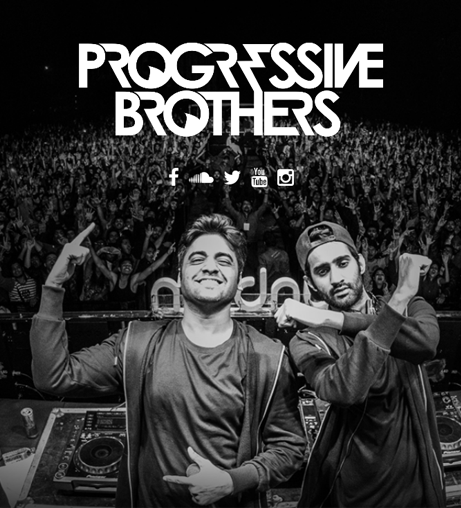
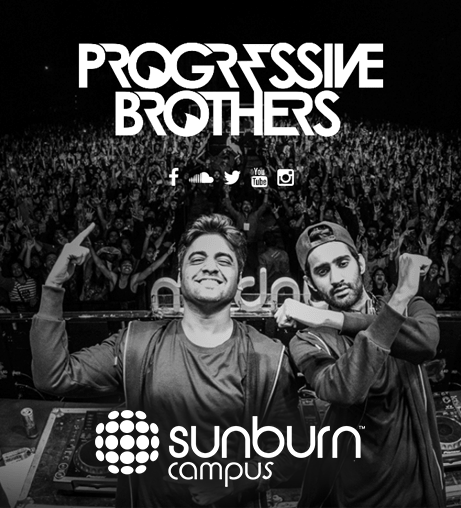
Masala coffee and combo

Changed region(s): [[0.1518, 0.7677, 0.7896, 1.0]]

diff --git a/resources/views/cultural.blade.php b/resources/views/cultural.blade.php
@@ -7,7 +7,10 @@
         <div class="d-flex flex-cultural flex-nowrap">
                 <div class="grid-width">
                     <div class="flex-disp">
-                        <img src="{{ asset('img/sunburn.png') }}" class="img-fluid"/>
+                        <img src="{{ asset('img/mix.png') }}" class="img-fluid image-over"/>
+                        <div class="overlay">
+                            <a href="{{ route('display_event', ['category' => 'cultural-shows', 'slug' => 'progressive-brothers-masala-coffee-combo']) }}" class="btn btn-info btn-lg">Show Details</a>
+                        </div> 
                     </div>
                 </div>
                 <div class="grid-width">
@@ -15,6 +18,14 @@
                         <img src="{{ asset('img/probro.png') }}" class="img-fluid image-over"/>
                         <div class="overlay">
                             <a href="{{ route('display_event', ['category' => 'cultural-shows', 'slug' => 'progressive-brothers-sunburn-campus']) }}" class="btn btn-info btn-lg">Show Details</a>
+                        </div>            
+                    </div>
+                </div>
+                <div class="grid-width">
+                    <div class="flex-disp">
+                        <img src="{{ asset('img/masaco.png') }}" class="img-fluid image-over"/>
+                        <div class="overlay">
+                            <a href="{{ route('display_event', ['category' => 'cultural-shows', 'slug' => 'masala-coffee']) }}" class="btn btn-info btn-lg">Show Details</a>
                         </div>            
                     </div>
                 </div>

diff --git a/resources/views/contact.blade.php b/resources/views/contact.blade.php
@@ -155,6 +155,18 @@
                 </div>
               </div>
             </div>
+            <div class="col-md-10 ml-auto col-xl-4 mr-auto">
+              <div class="card">
+                <div class="card-header">
+                <h3 class="h3-contact">Aswanth S R</h3>
+                <small class="text-uppercase font-weight-bold">Convenor : Accomodation</small>
+                </div>
+                <div class="card-body">  
+                    <h5>Phone : .+919447255217</h5>
+                    <h5>Email : aswanthsr1997@gmail.com</h5>
+                </div>
+              </div>
+            </div>
           </div>
         </div>
       </div>
